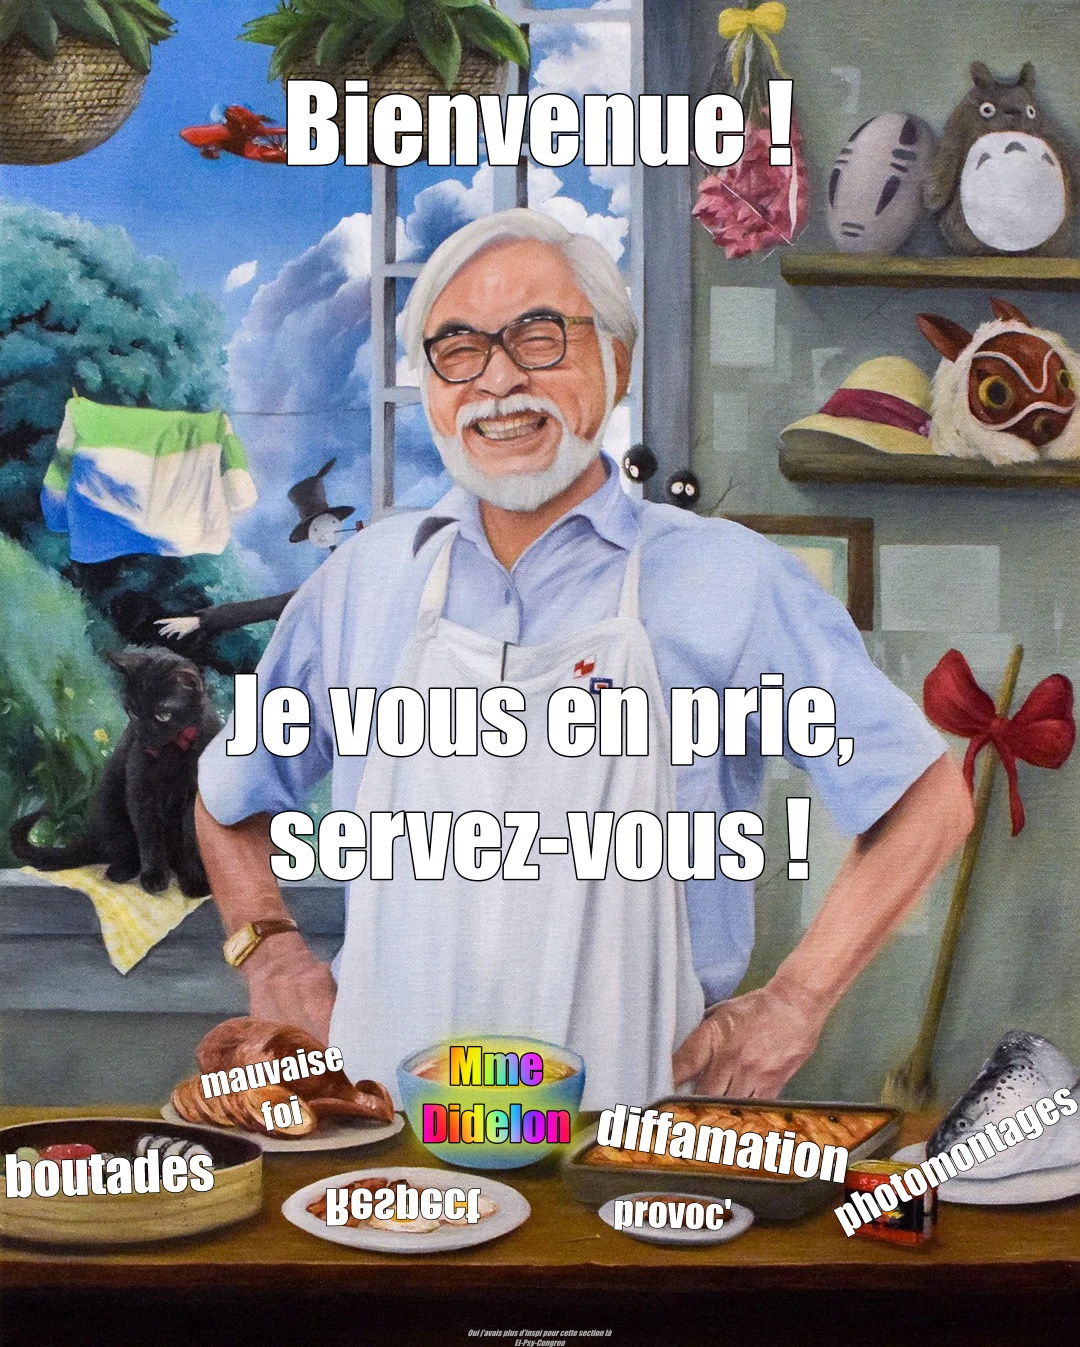
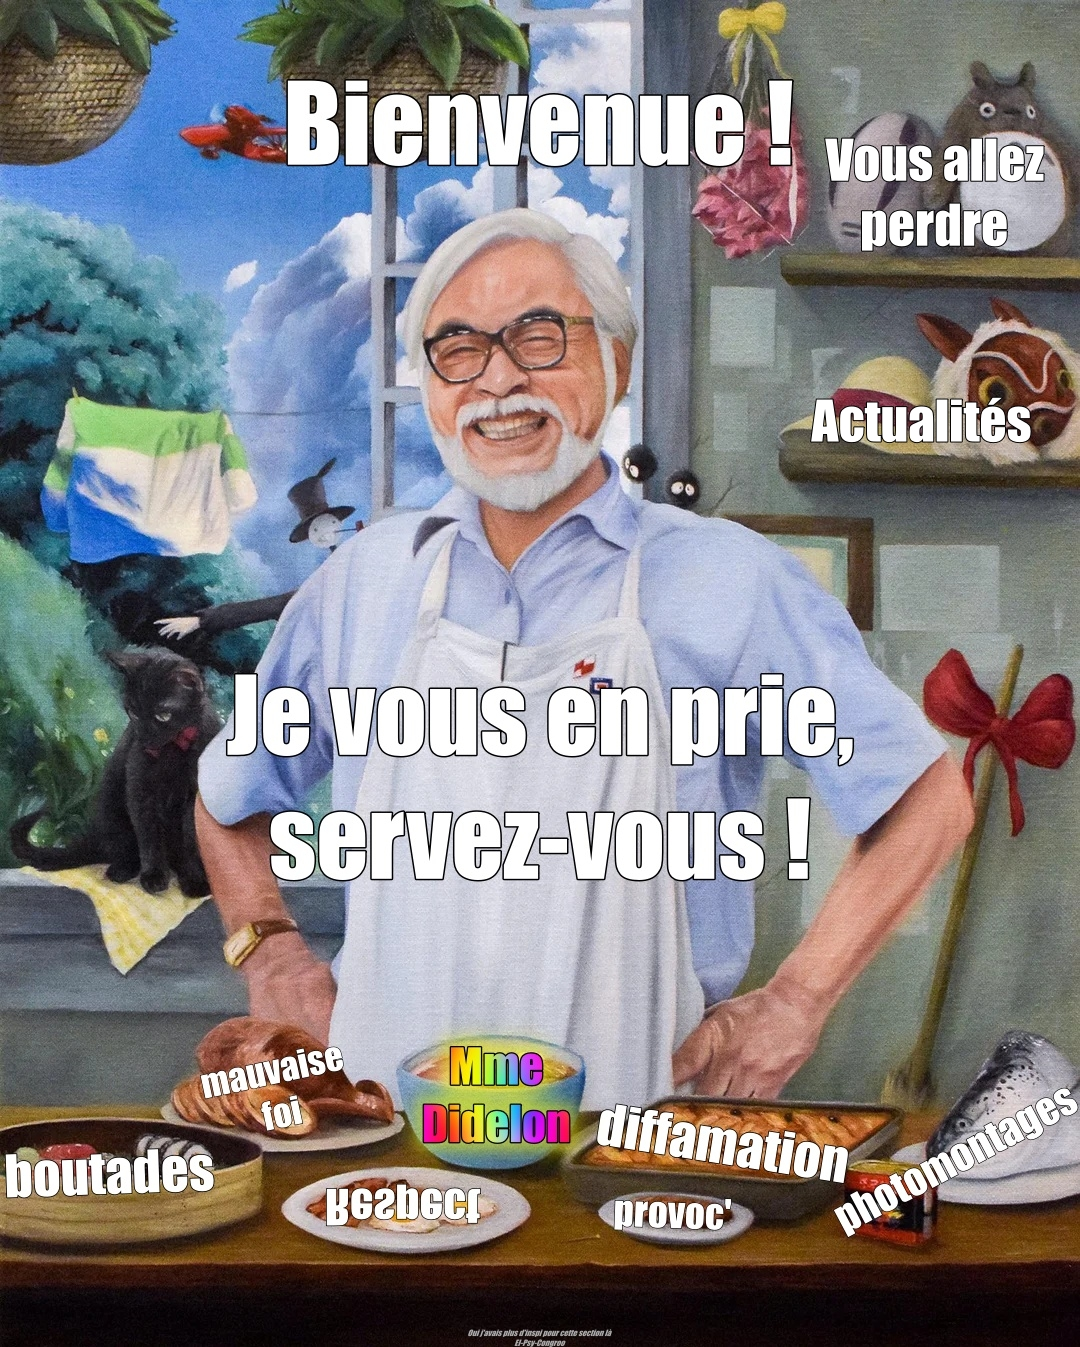
maybe the last ahhh finally its been done, wp moi

Changed region(s): [[0.7639, 0.0935, 0.9778, 0.1871], [0.7333, 0.2806, 0.9778, 0.343]]

diff --git a/site/pages/profs.html b/site/pages/profs.html
@@ -41,16 +41,6 @@
                         </span>
                     </a>
                 </li>
-                <li class="Actu-btn">
-                    <a href="#">
-                        <img src="images/actu-icon.png" alt="" class="icon">
-                        <button id="actu-toggle" class="actu-toggle" style="background:none; border: none;cursor: pointer;" onclick="show_popup()">
-                            <span>
-                                Actualités
-                            </span>
-                        </button>
-                    </a>
-                </li>
                 <li>
                     <a href="#">
                         <img src="images\broken-link.png" style="vertical-align:middle" class="icon">
@@ -86,28 +76,6 @@
             </ul>
         </div>
 
-        <div id="popup">
-            <div class="top-tx" style="text-align: center;">
-                <h2 class="actu-title">
-                    Actualités du 22/04 ! <button id="closing-btn" class="popup-btn"  onclick="close_popup()" >
-                        <img src="images/close-cross.png" alt="">
-                    </button>
-                </h2>
-                <h2 style="padding: 25px;">
-                    Porco Rosso c'est super, voilà merci au revoir. <br>
-                    Sérieusement, la relation Fio - Porco est juste trop cool à suivre et le fait que ce soit un porc, ben ça intrigue tout au long du film; <br>
-                    On se demande pourquoi et comment il peut y remédier "Ce qui marche pour les grenouilles ne marche pas forcément pour les cochons." <br>
-                    Je pense qu'il mérite sa place sur le podium des Ghiblis !
-                </h2>
-                <img src="gif/porco-thumbsup.gif" alt="" style="padding: 10px;border-radius: 4%;"> <br>
-
-                <img src="gif/fio-thumbsup.gif" alt="" style="padding: 10px;border-radius: 5%;">
-                <h2 style="padding: 15px;">
-                    Prochains Ghiblis : Pompoko et Princesse Mononoke
-                </h2>
-                
-            </div>
-        </div>
 
         <div id="title">
             <h1 class="title" style="text-align: center;">
@@ -130,7 +98,8 @@
                 <img src="images\Herr2.png" class="bg">
                 <h2 class="defi">
                     <p>
-                        Je vous prend quand vous voulez au Tennis de table Mr.
+                        Je vous prend quand vous voulez au Tennis de table Mr. <br>
+                        Oui, l'offre tient toujours. :)
                     </p>
                     
                 </h2>
@@ -146,10 +115,13 @@
                 </h1>
                 <img src="images/waifu-nanmdrjedeconnecestbon.jpg" alt="">
                 <h2 class="defi">
-                    You will be remembered for ages Madame (￣^￣)ゞ
+                    "Envoyez des dossiers pour le site svp ça va être marrant" <br>
+                    Mme Didelon : > Sends 2 photos of Mr. Herr <br>
+                    > Refuses to elaborate further <br> 
+                    "Et fuck elle en a pas envoyé d'elle of course"
                 </h2>
                 <h2 class="defi-2">
-                    (surtout dans la mesure ou le mot ghibli vous est associé, <br> ça vas pas être facile de vous oublier )
+                    *Operation subtilisation de telephone mobile enclenchée*
                 </h2>
             </div>
         </div>

diff --git a/site/pages/propos.html b/site/pages/propos.html
@@ -48,16 +48,6 @@
                         </span>
                     </a>
                 </li>
-                <li class="Actu-btn">
-                    <a href="#">
-                        <img src="images/actu-icon.png" alt="" class="icon">
-                        <button id="actu-toggle" class="actu-toggle" style="background:none; border: none;cursor: pointer;" onclick="show_popup()">
-                            <span>
-                                Actualités
-                            </span>
-                        </button>
-                    </a>
-                </li>
                 <li>
                     <a href="#">
                         <img src="images\broken-link.png" style="vertical-align:middle" class="icon">
@@ -91,29 +81,6 @@
                     </a>
                 </li>
             </ul>
-        </div>
-
-        <div id="popup">
-            <div class="top-tx" style="text-align: center;">
-                <h2 class="actu-title">
-                    Actualités du 22/04 ! <button id="closing-btn" class="popup-btn"  onclick="close_popup()" >
-                        <img src="images/close-cross.png" alt="">
-                    </button>
-                </h2>
-                <h2 style="padding: 25px;">
-                    Porco Rosso c'est super, voilà merci au revoir. <br>
-                    Sérieusement, la relation Fio - Porco est juste trop cool à suivre et le fait que ce soit un porc, ben ça intrigue tout au long du film; <br>
-                    On se demande pourquoi et comment il peut y remédier "Ce qui marche pour les grenouilles ne marche pas forcément pour les cochons." <br>
-                    Je pense qu'il mérite sa place sur le podium des Ghiblis !
-                </h2>
-                <img src="gif/porco-thumbsup.gif" alt="" style="padding: 10px;border-radius: 4%;"> <br>
-
-                <img src="gif/fio-thumbsup.gif" alt="" style="padding: 10px;border-radius: 5%;">
-                <h2 style="padding: 15px;">
-                    Prochains Ghiblis : Pompoko et Princesse Mononoke
-                </h2>
-                
-            </div>
         </div>
 
         <div id="image">

diff --git a/site/index.html b/site/index.html
@@ -43,16 +43,6 @@
                         </span>
                     </a>
                 </li>
-                <li class="Actu-btn">
-                    <a href="#">
-                        <img src="images/actu-icon.png" alt="" class="icon">
-                        <button id="actu-toggle" class="actu-toggle" style="background:none; border: none;cursor: pointer;" onclick="show_popup()">
-                            <span>
-                                Actualités
-                            </span>
-                        </button>
-                    </a>
-                </li>
                 <li>
                     <a href="#">
                         <img src="images\broken-link.png" style="vertical-align:middle" class="icon">
@@ -87,26 +77,6 @@
                     </a>
                 </li>
             </ul>
-        </div>
-
-        <div id="popup">
-            <div class="top-tx" style="text-align: center;">
-                <h2 class="actu-title">
-                    Actualités des Vacances d'été <button id="closing-btn" class="popup-btn"  onclick="close_popup()" >
-                        <img src="images/close-cross.png" alt="">
-                    </button>
-                </h2>
-                <h2 style="padding: 25px;">
-                    
-                </h2>
-                <img src="gif/porco-thumbsup.gif" alt="" style="padding: 10px;border-radius: 4%;"> <br>
-
-                <img src="gif/fio-thumbsup.gif" alt="" style="padding: 10px;border-radius: 5%;">
-                <h2 style="padding: 15px;">
-                    Prochains Ghiblis : Pompoko et Princesse Mononoke
-                </h2>
-                
-            </div>
         </div>
 
         <div id="title">

diff --git a/site/pages/admin.js b/site/pages/admin.js
@@ -6,8 +6,8 @@ $(document).ready(function () {
     $("#submit").click(function () {
       event.preventDefault(); // prevent PageReLoad
   
-      var ValidAns = $("#username").val() === "Infiniment plus faible";
-      var ValidAns2 = $("#username").val() === "infiniment plus faible"; // User validate
+      var ValidAns = $("#username").val() === "Infiniment plus faible"; //Fuck you Smartass, c'était pas comme ça qu'il fallait deviner
+      var ValidAns2 = $("#username").val() === "infiniment plus faible"; //Fuck you Smartass, c'était pas comme ça qu'il fallait deviner
   
       if (ValidAns === true || ValidAns2 === true) {
         // if ValidEmail & ValidPassword
